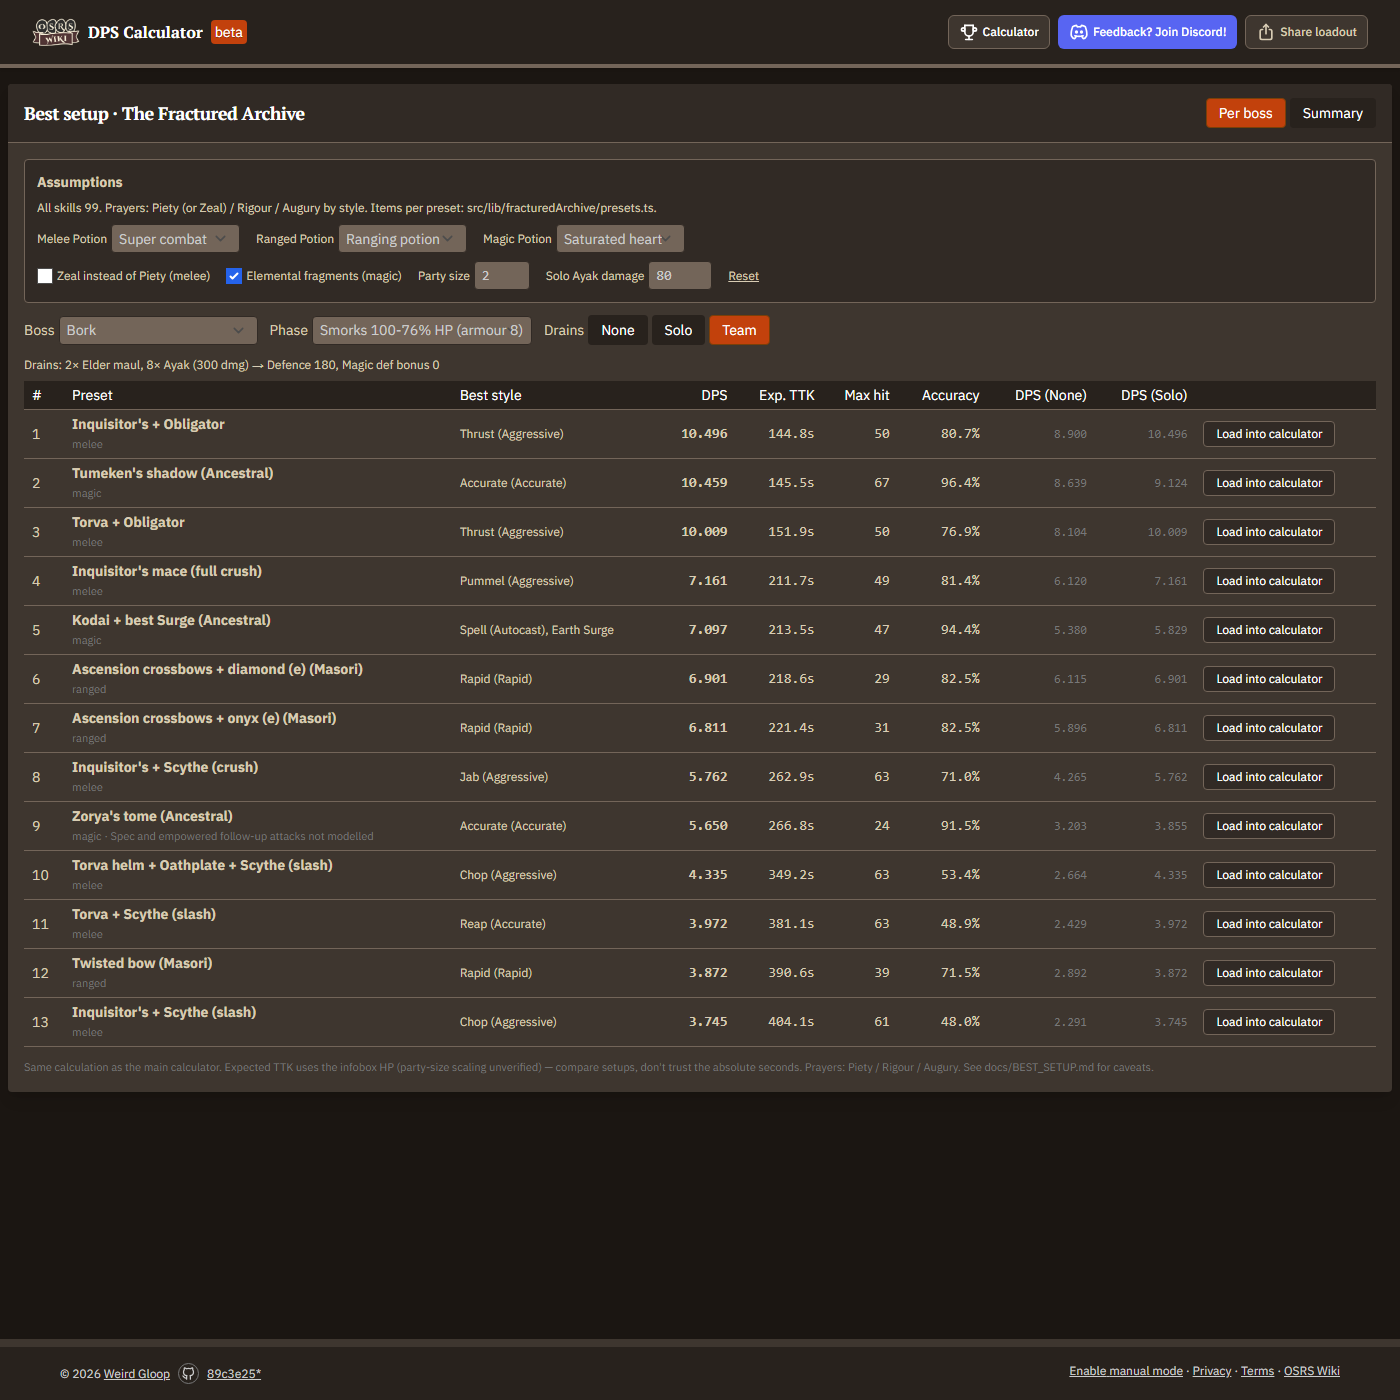
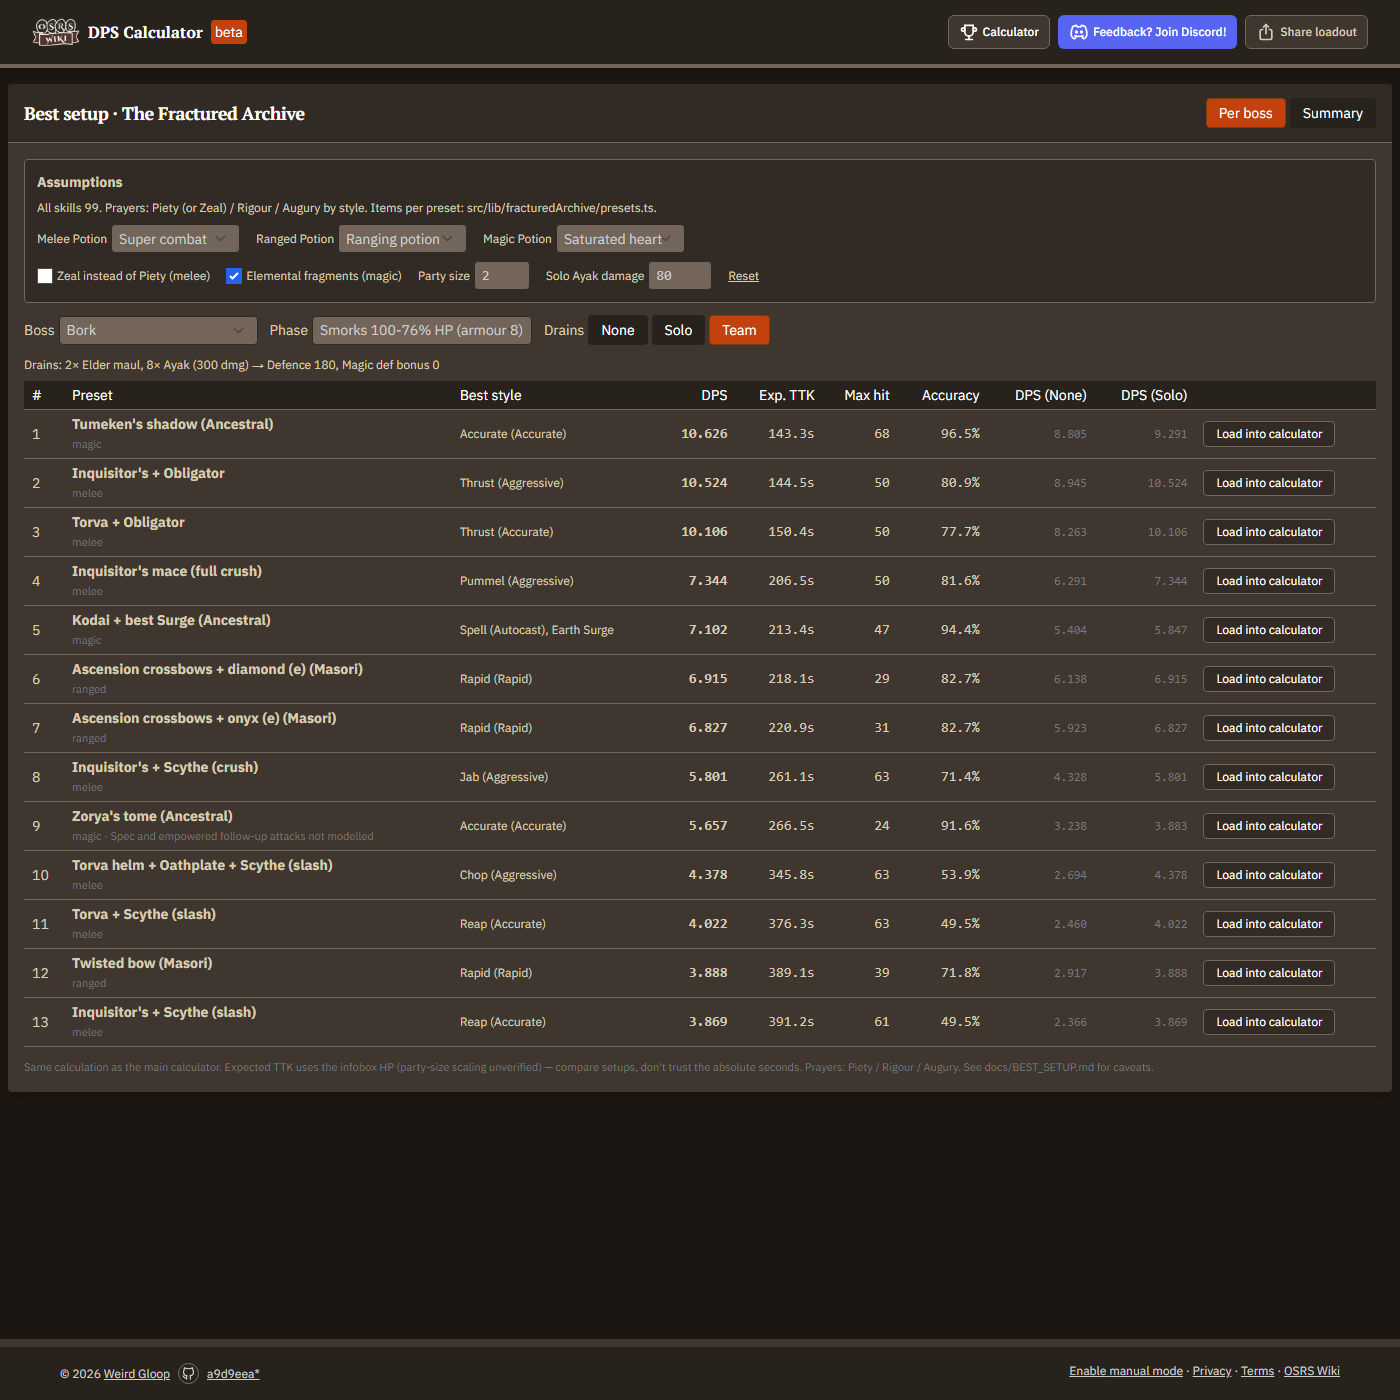
phase 8 fixes: review follow-ups
- Avernic treads (max) in every preset; results snapshot updated (Bork armour 8 Team now Shadow).
- Obligator caveat corrected in docs/BEST_SETUP.md.
- safeEvaluatePreset: a failing preset becomes an error row instead of failing the request; test.
- CLAUDE.md: stop yarn dev before yarn build.

diff --git a/src/lib/fracturedArchive/bestSetup.ts b/src/lib/fracturedArchive/bestSetup.ts
@@ -360,6 +360,8 @@ export interface PresetResult {
   accuracy: number;
   /** Set when the preset deals no damage. */
   cantHit?: string;
+  /** Set when evaluating the preset threw (bad item name, calc error, ...); the row then has 0 DPS. */
+  error?: string;
 }
 
 const styleLabel = (style: PlayerCombatStyle, spell: string | null): string => `${style.name} (${style.stance})${spell ? `, ${spell}` : ''}`;
@@ -416,6 +418,33 @@ export const evaluatePreset = (
   return best;
 };
 
+/**
+ * {@link evaluatePreset}, but a preset that throws becomes a 0-DPS error row instead of failing the whole request
+ * (one broken preset must not blank the view).
+ */
+export const safeEvaluatePreset = (...args: Parameters<typeof evaluatePreset>): PresetResult => {
+  try {
+    return evaluatePreset(...args);
+  } catch (e) {
+    const preset = args[1];
+    const message = e instanceof Error ? e.message : String(e);
+    return {
+      preset: preset.name,
+      group: preset.group,
+      note: preset.note,
+      style: { name: '-', type: null, stance: null },
+      spell: null,
+      styleLabel: '-',
+      dps: 0,
+      ttk: null,
+      maxHit: 0,
+      accuracy: 0,
+      cantHit: `Error: ${message}`,
+      error: message,
+    };
+  }
+};
+
 /** Highest DPS first; ties keep the presets.ts order. */
 export const rankResults = (rows: PresetResult[]): PresetResult[] => rows
   .map((r, i) => [r, i] as const)
@@ -450,7 +479,7 @@ export const computeBestSetup = (
   const target = findTarget(targetKey);
   const drains = DRAIN_STATES.map(({ id }) => {
     const { monster, drain } = buildTargetMonster(target, phase, id, assumptions);
-    const rows = rankResults(presets.map((p) => evaluatePreset(
+    const rows = rankResults(presets.map((p) => safeEvaluatePreset(
       basePlayer,
       p,
       monster,
@@ -458,9 +487,9 @@ export const computeBestSetup = (
       target.ttkNotApplicable,
       ttk === 'all',
     )));
-    if (ttk === 'top' && rows.length) {
+    if (ttk === 'top' && rows.length && !rows[0].error) {
       const preset = presets.find((p) => p.name === rows[0].preset)!;
-      rows[0] = evaluatePreset(basePlayer, preset, monster, assumptions, target.ttkNotApplicable, true);
+      rows[0] = safeEvaluatePreset(basePlayer, preset, monster, assumptions, target.ttkNotApplicable, true);
     }
     return { drain, rows };
   });

diff --git a/src/tests/lib/fracturedArchive/Presets.test.ts b/src/tests/lib/fracturedArchive/Presets.test.ts
@@ -231,8 +231,8 @@ describe('computation equals the main calculator', () => {
     expect(row.ttk).toBe(direct.ttk);
     expect(row.maxHit).toBe(direct.maxHit);
     expect(row.accuracy).toBe(direct.accuracy);
-    expect(row.maxHit).toBe(69);
-    expect(row.dps).toBeCloseTo(10.427, 3);
+    expect(row.maxHit).toBe(70);
+    expect(row.dps).toBeCloseTo(10.595, 3);
   });
 
   test('computeBestSetup rows equal evaluateLoadout of the rebuilt player (Bork armour 8, Solo)', () => {
@@ -269,6 +269,21 @@ describe('computation equals the main calculator', () => {
       expect(row.dps).toBeGreaterThanOrEqual(evaluateLoadout(p, monster, false).dps);
     }
     expect(['Reap', 'Chop']).toContain(row.style.name);
+  });
+
+  test('a preset that fails to evaluate becomes an error row; the other presets are still ranked', () => {
+    const broken = { ...PRESETS[0], name: 'Broken', equipment: { ...PRESETS[0].equipment, weapon: 'Not an item' } };
+    const [res] = computeBestSetup(generateEmptyPlayer(), [{ targetKey: 'xarth' }], A, [broken, PRESETS[1]], 'top');
+    for (const d of res.drains) {
+      expect(d.rows.map((r) => r.preset)).toEqual([PRESETS[1].name, 'Broken']);
+      expect(d.rows[0].dps).toBeGreaterThan(0);
+      expect(d.rows[0].error).toBeUndefined();
+      const err = d.rows[1];
+      expect(err.dps).toBe(0);
+      expect(err.ttk).toBeNull();
+      expect(err.error).toMatch(/Not an item/);
+      expect(err.cantHit).toMatch(/^Error: /);
+    }
   });
 
   test('rankResults keeps the preset order on ties', () => {

diff --git a/src/lib/fracturedArchive/presets.ts b/src/lib/fracturedArchive/presets.ts
@@ -24,7 +24,8 @@ import Potion from '@/enums/Potion';
  *   "Dizana's quiver" (Charged) not Blessed, "Elidinis' ward (f)" (the BiS shield for the Kodai preset; "(or)" is
  *   cosmetic). Masori uses the "(f)" pieces (fortified, BiS) as asked.
  * - Shadow / Zorya's tome / Twisted bow / Scythe / Obligator / Ascension crossbows are two-handed → no shield.
- * - Boots: Primordial / Pegasian / Eternal (Avernic treads variants exist in the data but aren't used here).
+ * - Boots: "Avernic treads (max)" in every preset (best in slot for all three styles). Alternatives if you don't have
+ *   them: 'Primordial boots' (melee), 'Pegasian boots' (ranged), 'Eternal boots' (magic).
  * - Added "Ancestral + Kodai (best Surge)" so the elemental weaknesses and fragment toggles have a spell to act on.
  */
 
@@ -47,7 +48,7 @@ const MELEE_FILL = {
   cape: 'Infernal cape',
   neck: 'Amulet of rancour',
   hands: 'Ferocious gloves',
-  feet: 'Primordial boots',
+  feet: 'Avernic treads (max)',
   ring: 'Ultor ring',
   ammo: "Rada's blessing 4",
 };
@@ -71,7 +72,7 @@ const MASORI_F = {
   cape: "Dizana's quiver",
   neck: 'Necklace of anguish',
   hands: 'Zaryte vambraces',
-  feet: 'Pegasian boots',
+  feet: 'Avernic treads (max)',
   ring: 'Venator ring',
 };
 
@@ -82,7 +83,7 @@ const ANCESTRAL = {
   cape: 'Imbued Guthix cape',
   neck: 'Occult necklace',
   hands: 'Confliction gauntlets',
-  feet: 'Eternal boots',
+  feet: 'Avernic treads (max)',
   ring: 'Magus ring',
   ammo: "Rada's blessing 4",
 };

diff --git a/src/app/components/bestSetup/BestSetup.tsx b/src/app/components/bestSetup/BestSetup.tsx
@@ -190,7 +190,7 @@ const BossView: React.FC<{
                 <td className="px-2 py-1">
                   <div className="font-bold">{r.preset}</div>
                   <div className="text-[11px] text-gray-500 dark:text-gray-400">
-                    {r.cantHit ? `Can't hit: ${r.cantHit}` : `${r.group}${r.note ? ` · ${r.note}` : ''}`}
+                    {r.cantHit ? `${r.error ? '' : "Can't hit: "}${r.cantHit}` : `${r.group}${r.note ? ` · ${r.note}` : ''}`}
                   </div>
                 </td>
                 <td className="px-2 py-1 text-xs">{r.styleLabel}</td>

diff --git a/docs/BEST_SETUP.md b/docs/BEST_SETUP.md
@@ -62,8 +62,30 @@ opens the calculator — the numbers there are identical (checked by `scripts/ve
 TTK is the expensive part (O(HP × max hit)), so it is computed only for each preset's winning style, and in the
 Summary only for the top preset.
 
+A preset that fails to evaluate (e.g. a misspelt item) shows as a 0-DPS "Error: ..." row instead of breaking the
+view (`safeEvaluatePreset`).
+
 Rows that deal no damage are greyed with the reason (e.g. melee on Archive Guardian (Flying): "Flying: melee can't
 reach it"; Ocellus P1 walking / P3 deflect: "Ocellus is praying against this combat style.").
+
+## Results snapshot (default assumptions, 2026-10-22)
+
+Best preset per boss/phase (default option), DPS under None / Solo / Team:
+
+| Boss / phase | None | Solo | Team |
+|---|---|---|---|
+| Archive Guardian (Flying) | Ascension diamond (e) 8.981 | Ascension diamond (e) 10.905 | Ascension diamond (e) 10.905 |
+| Archive Guardian (Grounded) | Inquisitor's + Obligator 11.413 | 13.061 | 13.061 |
+| The Smorks | Ascension diamond (e) 7.616 | Inquisitor's + Obligator 14.645 | Inquisitor's + Obligator 14.645 |
+| Bork (armour 8) | Inquisitor's + Obligator 8.945 | Inquisitor's + Obligator 10.524 | Tumeken's shadow 10.626 |
+| Bork (Stunned) | Inquisitor's + Obligator 15.677 | 15.677 | 15.677 |
+| Dreadnoth | Inquisitor's + Obligator 13.932 | 15.559 | 15.559 |
+| Jelly | Ascension onyx (e) 13.792 | 14.053 | 14.053 |
+| Xarth | Inquisitor's + Obligator 12.839 | 13.917 | 13.917 |
+| Ocellus P1 (at a corner) | Inquisitor's + Obligator 10.435 | 12.447 | 12.447 |
+| Ocellus P1 (walking) | Ascension diamond (e) 9.813 | 11.404 | 11.404 |
+| Ocellus P2 (The Blade) | Inquisitor's + Obligator 12.060 | 15.551 | 15.551 |
+| Ocellus P3 (quadrants 1-3) | Inquisitor's + Obligator 11.083 | 12.856 | 12.856 |
 
 ## Known caveats
 
@@ -72,9 +94,12 @@ reach it"; Ocellus P1 walking / P3 deflect: "Ocellus is praying against this com
 - **Ocellus P2 (The Blade)**: DPS is damage to the Blade (50% transfers to P3); TTK shown as n/a.
 - **Ocellus P3 last-quadrant options are low-confidence**: deflect strength (full block assumed), whether magic is
   deflected, void-explosion rounding and the attack speed-up after tick-perfect dodges are unverified.
-- **Obligator** (top preset on most melee-able bosses) relies on the phase 7b model: best of 2–4 damage rolls with one
-  accuracy roll, +20/40% vs 2x2/3x3 — the "one accuracy roll" reading is **unverified**; if it turns out to be one
-  accuracy roll per damage roll, the Obligator rows drop.
+- **Obligator** (top preset on most melee-able bosses) uses the phase 7b model: best of 2–4 damage rolls behind a
+  single accuracy roll, +20/40% vs 2x2/3x3. That is the *conservative* reading: if each damage roll has its own
+  accuracy roll (best of N rolls, misses count as 0), the Obligator rows **rise** (review check, Bork armour 8 with the
+  earlier Primordial boots: 8.900 → 11.235 undrained, 10.496 → 12.066 at the floor), so its first places are robust.
+  A third reading from the wiki's development history — each *extra* roll is an accuracy roll against the target's
+  stab/slash defence (the reason stab/slash > crush adds rolls) — is also **unverified** and not modelled.
 - **Zorya's tome**: base max hit 18 flat; the spec and its three empowered follow-up attacks are not modelled, so the
   tome is undervalued.
 - Ascension (e) bolts use the normal diamond/onyx proc numbers (unverified).

diff --git a/PROGRESS.md b/PROGRESS.md
@@ -3,6 +3,20 @@
 Newest entry first. One entry per phase (or per notable fix). Keep entries short: what was done, how it was
 verified, what's unverified / left for later.
 
+## Phase 8 fixes — review follow-ups (2026-10-22)
+
+- Boots: every preset now uses "Avernic treads (max)" (BiS for all styles; Primordial/Pegasian/Eternal documented as
+  alternatives in presets.ts). Numbers moved slightly; one winner changed: Bork (armour 8) Team is now Tumeken's shadow
+  10.626 (Inquisitor's + Obligator 10.524); P3 last-quadrant Deflect Melee Solo is now Shadow 7.978. Shadow vs AG Flying
+  Team: 10.595 / 70 (was 10.427 / 69). Full table: docs/BEST_SETUP.md "Results snapshot".
+- docs/BEST_SETUP.md: Obligator caveat corrected (the per-roll-accuracy reading raises the Obligator rows, so the
+  ranking is robust; the development-history reading is noted as unverified).
+- `safeEvaluatePreset`: a preset that throws becomes a 0-DPS error row instead of failing the worker request; test.
+- CLAUDE.md: stop `yarn dev` before `yarn build` (a build corrupts the dev server's `.next`), restart it after.
+- `yarn test` 755 (751 pass / 4 skipped), `yarn lint`, `tsc --noEmit`, `yarn build` clean; `node scripts/verifyBestSetup.mjs`
+  OK (Shadow AG Flying Team 10.595 / 70 = Jest; loaded into the calculator: Bork Team Shadow 10.626 / 68, AG Flying Solo
+  Twisted bow 10.089 / 81 — identical); screenshots re-shot.
+
 ## Phase 8 — Best setup view (2026-10-22)
 
 - New route `/best-setup` (static export → `out/best-setup.html`), "Best setup" button in the top bar (TopBar +12).

diff --git a/CLAUDE.md b/CLAUDE.md
@@ -8,7 +8,8 @@ finder. Read `ROADMAP.md` (phases, decisions, data gaps) and `PROGRESS.md` (what
 - Yarn is vendored: `node .yarn/releases/yarn-4.9.2.cjs <cmd>` (no global yarn). Examples below use `yarn` for short.
 - `yarn dev` → http://localhost:3001/osrs-dps (port 3000 is occupied on this machine; check the "Local:" line).
 - `yarn test` (Jest, ~10 s) and `yarn lint` must both be green before a phase is called done.
-- `yarn build` → static export in `out/`.
+- `yarn build` → static export in `out/`. **Stop `yarn dev` first** — a build while the dev server runs corrupts its
+  `.next` ("Cannot find module './NNNN.js'"); delete `.next` and restart `yarn dev` after building.
 - Playwright: `npx playwright screenshot --browser chromium --wait-for-timeout 4000 <url> <png>` for quick checks, or
   write a script using `@playwright/test`. Use it to verify UI changes: select the monster, set inputs, read the DPS
   numbers on screen, and save a screenshot under `docs/screenshots/`.
